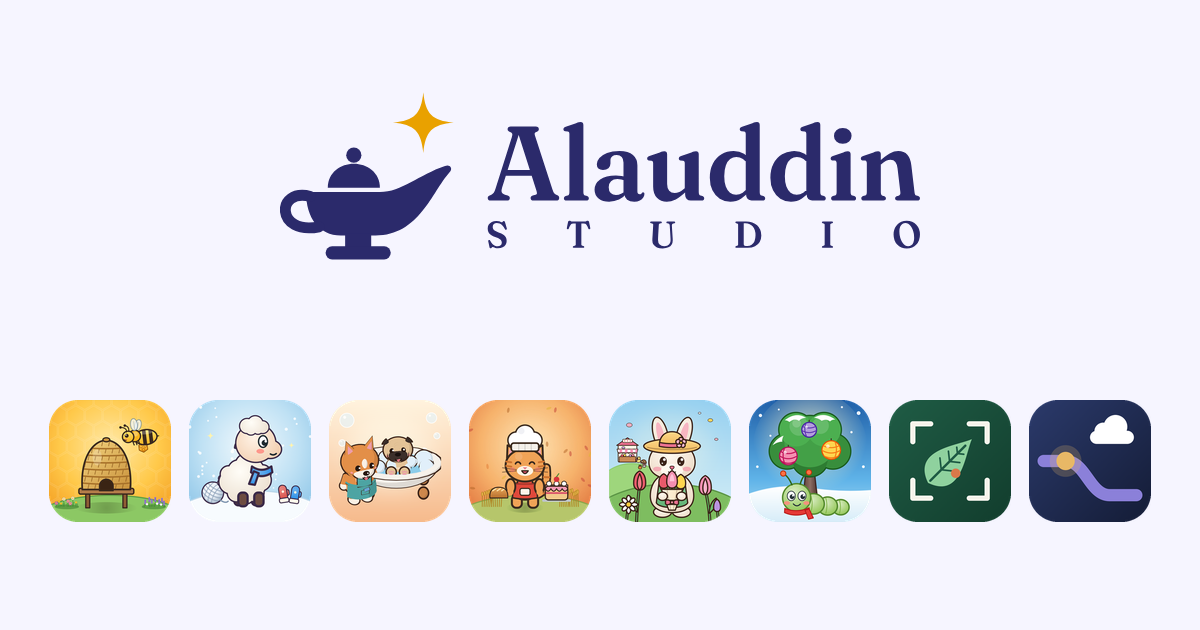
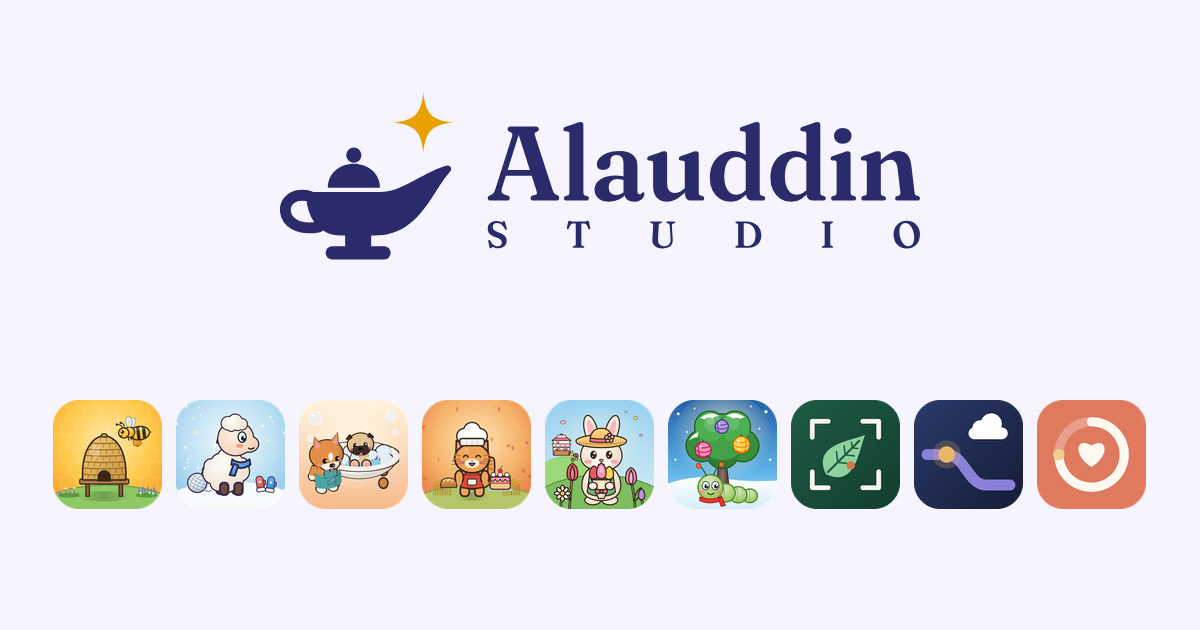
Add Kinring: app page, privacy, screenshots and home card

Changed region(s): [[0.0308, 0.6333, 0.9867, 0.8444]]

diff --git a/kinring/index.html b/kinring/index.html
@@ -1,0 +1,91 @@
+<!doctype html>
+<html lang="en" class="no-js">
+<head>
+  <meta charset="utf-8">
+  <script>document.documentElement.className = "js";</script>
+  <meta name="viewport" content="width=device-width, initial-scale=1, viewport-fit=cover">
+  <title>Kinring: Keep in Touch Family</title>
+  <meta name="description" content="Kinring is a daily reminder to make time for your family. See who needs your time today, with one small idea for each person.">
+  <meta name="theme-color" content="#E07A5F">
+  <meta property="og:title" content="Kinring: Keep in Touch Family">
+  <meta property="og:description" content="Kinring is a daily reminder to make time for your family. See who needs your time today, with one small idea for each person.">
+  <meta property="og:image" content="https://alauddinstudio.com/kinring/icon.png">
+  <meta property="og:url" content="https://alauddinstudio.com/kinring/">
+  <meta property="og:type" content="website">
+  <meta name="twitter:card" content="summary_large_image">
+  <link rel="canonical" href="https://alauddinstudio.com/kinring/">
+  <link rel="icon" href="../assets/favicon.png">
+  <link rel="preconnect" href="https://fonts.googleapis.com">
+  <link rel="preconnect" href="https://fonts.gstatic.com" crossorigin>
+  <link href="https://fonts.googleapis.com/css2?family=Fredoka:wght@500;600;700&family=Nunito:wght@500;700;800&display=swap" rel="stylesheet">
+  <link rel="stylesheet" href="../assets/style.css?v=aac029da">
+  <link rel="apple-touch-icon" href="../assets/apple-touch-icon.png">
+  <style>:root { --c1: #E07A5F; --c2: #F2CC8F; --bg: #FFF8F1; }</style>
+  <script type="application/ld+json">{"@context": "https://schema.org", "@type": "MobileApplication", "name": "Kinring: Keep in Touch Family", "description": "Kinring is a daily reminder to make time for your family. See who needs your time today, with one small idea for each person.", "url": "https://alauddinstudio.com/kinring/", "image": "https://alauddinstudio.com/kinring/icon.png", "applicationCategory": "LifestyleApplication", "operatingSystem": "Android, iOS", "publisher": {"@type": "Organization", "name": "Alauddin Studio", "url": "https://alauddinstudio.com/"}}</script>
+</head>
+<body class="app-page" data-particles='["❤", "🧡"]'>
+  <div class="sky" aria-hidden="true"><div class="blob b1"></div><div class="blob b2"></div><div class="blob b3"></div></div>
+  <div class="particles" aria-hidden="true"></div>
+  <div class="wrap">
+    <header class="topbar">
+      <a class="brand" href="../"><span class="brand-mark"><img src="../assets/logo-icon.svg" alt="" width="36" height="36"></span><span>Alauddin Studio</span></a>
+      <nav class="nav"><a href="#features">Features</a><a href="#help">Help</a><a href="#contact">Contact</a></nav>
+    </header>
+
+    <section class="hero game-hero">
+      <div class="hero-text">
+        <div class="title-row"><img class="app-icon" src="icon.png" alt="" width="256" height="256"><span class="badge soon"><span class="dot"></span>Coming soon</span></div>
+        <h1>Kinring</h1>
+        <p class="app-tag">Make time for family</p>
+        <p>Busy days fly by. Kinring shows 1 to 3 people who need your time today, and one small thing to do for each.</p>
+        <div class="cta-row"><span class="btn ghost disabled">🌱 Coming soon</span><a class="btn ghost" href="#features">See what it does</a></div>
+      </div>
+      <div class="hero-visual"><div class="phone tall"><img src="shots/1.jpg" alt="Kinring screenshot" width="432" height="970"></div></div>
+    </section>
+    <section class="gallery tall reveal" aria-label="Screenshots">
+      <button class="arrow prev" type="button" aria-label="Previous screenshots">‹</button>
+      <div class="shots" style="--n:6"><img src="shots/1.jpg" data-big="shots/1@2.jpg" alt="Kinring screenshot 1" loading="lazy" width="432" height="970"><img src="shots/2.jpg" data-big="shots/2@2.jpg" alt="Kinring screenshot 2" loading="lazy" width="432" height="970"><img src="shots/3.jpg" data-big="shots/3@2.jpg" alt="Kinring screenshot 3" loading="lazy" width="432" height="970"><img src="shots/4.jpg" data-big="shots/4@2.jpg" alt="Kinring screenshot 4" loading="lazy" width="432" height="970"><img src="shots/5.jpg" data-big="shots/5@2.jpg" alt="Kinring screenshot 5" loading="lazy" width="432" height="970"><img src="shots/6.jpg" data-big="shots/6@2.jpg" alt="Kinring screenshot 6" loading="lazy" width="432" height="970"></div>
+      <button class="arrow next" type="button" aria-label="Next screenshots">›</button>
+      <p class="sample">Screens show sample data.</p>
+    </section>
+
+    <section class="about" id="features">
+      <div class="section-head reveal"><span class="eyebrow">What it does</span><h2>Everything in one simple app</h2></div>
+      <div class="feats"><div class="feat reveal" style="--d:0.00s"><span class="feat-ic">📞</span><b>Who needs you today</b><span>1 to 3 people a day, with one small idea for each.</span></div><div class="feat reveal" style="--d:0.07s"><span class="feat-ic">💍</span><b>A ring for each person</b><span>Full ring: you gave them time. Low ring: they miss you.</span></div><div class="feat reveal" style="--d:0.14s"><span class="feat-ic">⏳</span><b>A number that stays</b><span>See about how many more times you may see Mom or Dad.</span></div><div class="feat reveal" style="--d:0.21s"><span class="feat-ic">📊</span><b>Your week</b><span>See who got your time this week, person by person.</span></div><div class="feat reveal" style="--d:0.28s"><span class="feat-ic">💬</span><b>Questions to ask</b><span>12 questions to ask your parents and grandparents.</span></div><div class="feat reveal" style="--d:0.35s"><span class="feat-ic">🌍</span><b>Eight languages</b><span>English, Deutsch, Français, Español, 日本語, Português, 한국어, 繁體中文.</span></div></div>
+    </section>
+
+    <section class="about" id="how">
+      <div class="section-head reveal"><span class="eyebrow">How it works</span><h2>Three easy steps</h2></div>
+      <div class="feats three"><div class="feat reveal" style="--d:0.00s"><span class="feat-ic step-no">1</span><b>Add your family</b><span>Mom, Dad, kids, partner, brother, sister, friends.</span></div><div class="feat reveal" style="--d:0.07s"><span class="feat-ic step-no">2</span><b>Get a daily nudge</b><span>One quiet reminder, at the time you pick.</span></div><div class="feat reveal" style="--d:0.14s"><span class="feat-ic step-no">3</span><b>Tap &quot;Did it&quot;</b><span>Their ring fills up again.</span></div></div>
+    </section>
+
+    <section class="about" id="help">
+      <div class="section-head reveal"><span class="eyebrow">Help</span><h2>Questions and answers</h2></div>
+      <div class="faqs"><details class="faq"><summary>How is &quot;72 more times&quot; counted?</summary><p>It is a simple estimate: (82 − their age) × how often you meet each year. It can be wrong, so Kinring says "may". It is there to remind you, not to scare you.</p></details><details class="faq"><summary>What is free and what is Premium?</summary><p>Free: one person, the daily nudge, their ring and the "more times" number. Premium adds your whole family, daily ideas for each person, your week and 12 questions to ask your parents.</p></details><details class="faq"><summary>Why didn&#x27;t I get a reminder?</summary><p>Check that notifications are allowed for Kinring in your phone's settings, and that the reminder is on in Kinring → Settings.</p></details><details class="faq"><summary>How do I cancel my subscription?</summary><p><b>iPhone:</b> Settings → your name → Subscriptions → Kinring → Cancel Subscription.<br><b>Android:</b> Google Play → profile icon → Payments &amp; subscriptions → Subscriptions → Kinring → Cancel.<br>Cancel at least 24 hours before the end of the period to avoid the next charge. Deleting the app does not cancel the subscription.</p></details><details class="faq"><summary>I bought Premium but the app still asks me to pay.</summary><p>Open Settings and tap <b>Restore purchases</b>, using the same Apple ID or Google account you paid with. If that does not help, email us.</p></details><details class="faq"><summary>How do I get a refund?</summary><p>Payments are handled by Apple and Google, so refunds are too. iPhone: <a href="https://reportaproblem.apple.com">reportaproblem.apple.com</a>. Android: Google Play → Payments &amp; subscriptions → Budget &amp; history, or the Google Play Help Center.</p></details><details class="faq"><summary>Does Kinring read my contacts?</summary><p>No. You type the names yourself. Your family list stays on your phone; we have no account for you. See the <a href="privacy.html">Privacy Policy</a>.</p></details><details class="faq"><summary>How do I delete my data?</summary><p>Kinring → Settings → Delete all data, or delete the app.</p></details></div>
+    </section>
+
+    <section class="contact reveal" id="contact">
+      <span class="why-ic big">💌</span>
+      <h2>Contact us</h2>
+      <p>Questions, bugs or ideas? We usually reply within 2 days.</p>
+      <a class="btn" href="mailto:hello@alauddinstudio.com?subject=Kinring">Email us</a>
+    </section>
+
+    <section class="more">
+      <div class="section-head reveal"><span class="eyebrow">More from Alauddin Studio</span><h2>Keep exploring</h2></div>
+      <div class="minis"><a class="mini" href="../leafcure/" style="--c1:#1F5C45"><img src="../leafcure/icon.png" alt="" loading="lazy" width="256" height="256"><span>Leafcure</span></a><a class="mini" href="../paincast/" style="--c1:#4B4A9E"><img src="../paincast/icon.png" alt="" loading="lazy" width="256" height="256"><span>Paincast</span></a><a class="mini" href="../" style="--c1:#2B2A6B"><img src="../assets/logo-512.png" alt="" loading="lazy" width="256" height="256"><span>All games and apps</span></a></div>
+    </section>
+  </div>
+  <footer class="footer">
+    <div class="wrap">
+      <div class="foot-top">
+        <a class="brand" href="../"><span class="brand-mark"><img src="../assets/logo-icon.svg" alt="" width="36" height="36"></span><span>Alauddin Studio</span></a>
+        <p>Little ideas, a touch of magic.</p>
+      </div>
+      <div class="foot-links one"><div><b>Kinring</b><a href="privacy.html">Privacy Policy</a><a href="#help">Support</a><a href="https://www.apple.com/legal/internet-services/itunes/dev/stdeula/">Terms of Use</a></div></div><p class="made">Made with care by Alauddin Studio</p>
+      <p class="copy">© 2026 <a href="https://alauddinstudio.com/">Alauddin Studio</a> · <a href="mailto:hello@alauddinstudio.com">hello@alauddinstudio.com</a></p>
+    </div>
+  </footer>
+  <script src="../assets/app.js?v=aac029da"></script>
+</body>
+</html>

diff --git a/index.html b/index.html
@@ -109,6 +109,13 @@
         <ul class="highlights"><li>🌦 Pressure alerts</li><li>📝 Pain diary</li><li>📱 Stays on your phone</li></ul>
         <span class="go">Explore →</span>
       </a>
+      <a class="game-card reveal" href="kinring/" style="--c1:#E07A5F;--c2:#F2CC8F;--d:0.14s">
+        <div class="art"><img src="kinring/icon.png" alt="Kinring icon" loading="lazy" width="256" height="256"><span class="badge soon"><span class="dot"></span>Coming soon</span></div>
+        <h3 data-status="Coming soon">Kinring</h3>
+        <p>A daily nudge to call Mom, text your brother and play with your kids.</p>
+        <ul class="highlights"><li>📞 Who needs you today</li><li>💍 A ring for each person</li><li>📱 Stays on your phone</li></ul>
+        <span class="go">Explore →</span>
+      </a>
       </div>
     </section>
 
@@ -137,11 +144,11 @@
       </div>
       <div class="foot-cols">
         <div><b>Games</b><a href="honeybee/">Honey Bee Idle</a><a href="sheep/">Sheep Merge</a><a href="petsalon/">Pet Salon Idle</a><a href="wooltree/">Wool Tree Idle</a><a href="flower/">Flower Shop Idle</a><a href="bakery/">Cozy Bakery Idle</a></div>
-        <div><b>Apps</b><a href="leafcure/">Leafcure</a><a href="paincast/">Paincast</a></div>
+        <div><b>Apps</b><a href="leafcure/">Leafcure</a><a href="paincast/">Paincast</a><a href="kinring/">Kinring</a></div>
         <div><b>Studio</b><a href="#about">About us</a><a href="#contact">Contact</a></div>
         <div><b>Follow Leafcure</b><a href="https://www.tiktok.com/@leafcureapp" target="_blank" rel="noopener">TikTok</a><a href="https://www.instagram.com/leafcureapp/" target="_blank" rel="noopener">Instagram</a><a href="https://www.youtube.com/@leafcureapp" target="_blank" rel="noopener">YouTube</a></div>
       </div>
-      <details class="legal"><summary>Privacy and support</summary><div class="legal-rows"><div><b>Honey Bee Idle</b><a href="honey-bee/privacy.html">Privacy</a><a href="honey-bee/support.html">Support</a></div><div><b>Sheep Merge</b><a href="sheep-merge/privacy.html">Privacy</a><a href="sheep-merge/support.html">Support</a></div><div><b>Pet Salon Idle</b><a href="pet-salon/privacy.html">Privacy</a><a href="pet-salon/support.html">Support</a></div><div><b>Wool Tree Idle</b><a href="privacy.html">Privacy</a><a href="support.html">Support</a></div><div><b>Flower Shop Idle</b><a href="flower-shop/privacy.html">Privacy</a><a href="flower-shop/support.html">Support</a></div><div><b>Cozy Bakery Idle</b><a href="cozy-bakery/privacy.html">Privacy</a><a href="cozy-bakery/support.html">Support</a></div><div><b>Leafcure</b><a href="leafcure/privacy.html">Privacy</a><a href="leafcure/">Support</a></div><div><b>Paincast</b><a href="paincast/privacy.html">Privacy</a><a href="paincast/">Support</a></div></div></details><p class="made">Made with care by Alauddin Studio</p>
+      <details class="legal"><summary>Privacy and support</summary><div class="legal-rows"><div><b>Honey Bee Idle</b><a href="honey-bee/privacy.html">Privacy</a><a href="honey-bee/support.html">Support</a></div><div><b>Sheep Merge</b><a href="sheep-merge/privacy.html">Privacy</a><a href="sheep-merge/support.html">Support</a></div><div><b>Pet Salon Idle</b><a href="pet-salon/privacy.html">Privacy</a><a href="pet-salon/support.html">Support</a></div><div><b>Wool Tree Idle</b><a href="privacy.html">Privacy</a><a href="support.html">Support</a></div><div><b>Flower Shop Idle</b><a href="flower-shop/privacy.html">Privacy</a><a href="flower-shop/support.html">Support</a></div><div><b>Cozy Bakery Idle</b><a href="cozy-bakery/privacy.html">Privacy</a><a href="cozy-bakery/support.html">Support</a></div><div><b>Leafcure</b><a href="leafcure/privacy.html">Privacy</a><a href="leafcure/">Support</a></div><div><b>Paincast</b><a href="paincast/privacy.html">Privacy</a><a href="paincast/">Support</a></div><div><b>Kinring</b><a href="kinring/privacy.html">Privacy</a><a href="kinring/">Support</a></div></div></details><p class="made">Made with care by Alauddin Studio</p>
       <p class="copy">© 2026 <a href="https://alauddinstudio.com/">Alauddin Studio</a> · <a href="mailto:hello@alauddinstudio.com">hello@alauddinstudio.com</a></p>
     </div>
   </footer>

diff --git a/kinring/privacy.html b/kinring/privacy.html
@@ -1,0 +1,48 @@
+<!doctype html>
+<html lang="en">
+<head>
+<meta charset="utf-8">
+<meta name="viewport" content="width=device-width, initial-scale=1">
+<title>Kinring Privacy Policy</title>
+<link rel="stylesheet" href="style.css">
+</head>
+<body>
+<div class="page">
+  <p><a href="./">← Kinring</a></p>
+  <h1>Privacy Policy</h1>
+  <p class="updated">Last updated: 3 November 2026</p>
+
+  <p>Kinring ("the app") is made by Md Alauddin (Alauddin Studio). This policy explains what data the app uses and why. In short: your family list never leaves your phone, there is no account, no ads and no tracking.</p>
+
+  <h2>Your family list</h2>
+  <p>The people you add (name, relation, optional age, how often you want to make time) and the times you mark as done are stored only on your phone. We never receive them. The app does not read your phone's contacts; you type the names yourself.</p>
+
+  <h2>Sharing</h2>
+  <p>If you tap "Share", the app makes a picture on your phone and opens your phone's share menu. It goes only where you choose to send it.</p>
+
+  <h2>Purchases</h2>
+  <p>Subscriptions and the one-time purchase are handled by Apple or Google and by RevenueCat, which tells the app whether Premium is active using an anonymous ID. We never see your card details.</p>
+
+  <h2>Notifications</h2>
+  <p>The daily reminder is planned on your phone, at the time you pick. No push server is involved. You can turn it off in Settings.</p>
+
+  <h2>What we do not do</h2>
+  <ul>
+    <li>No account, no sign-in</li>
+    <li>No ads and no advertising ID</li>
+    <li>No analytics or tracking</li>
+    <li>No selling or sharing of personal data</li>
+  </ul>
+
+  <h2>Children</h2>
+  <p>The app is made for adults. It is not directed at children under 13 and does not knowingly collect data from them.</p>
+
+  <h2>Your rights</h2>
+  <p>You can delete all app data at any time in Settings → Delete all data, or by deleting the app. For questions or requests, including GDPR and CCPA requests, email <a href="mailto:hello@alauddinstudio.com?subject=Kinring%20privacy">hello@alauddinstudio.com</a>.</p>
+
+  <h2>Changes</h2>
+  <p>If this policy changes, the new version will be posted on this page with a new date.</p>
+</div>
+<footer>© 2026 Alauddin Studio</footer>
+</body>
+</html>

diff --git a/kinring/style.css b/kinring/style.css
@@ -1,0 +1,54 @@
+:root {
+  --leaf: #3A2E2A;
+  --leaf-dark: #2A201D;
+  --sage: #F3E9DF;
+  --cream: #FFF8F1;
+  --terra: #E07A5F;
+  --ink: #1c2421;
+  --muted: #66736d;
+}
+* { box-sizing: border-box; }
+body {
+  margin: 0;
+  background: var(--cream);
+  color: var(--ink);
+  font: 17px/1.6 -apple-system, BlinkMacSystemFont, "Segoe UI", Roboto, sans-serif;
+  overflow-wrap: break-word;
+}
+a { color: var(--leaf); }
+.hero {
+  background: linear-gradient(160deg, var(--leaf), var(--leaf-dark));
+  color: #fff;
+  text-align: center;
+  padding: 48px 16px 40px;
+}
+.hero .icon { border-radius: 22%; box-shadow: 0 6px 24px rgba(0,0,0,.25); }
+.hero h1 { margin: 16px 0 0; font-size: 40px; }
+.hero .tag { margin: 0 0 12px; color: var(--sage); font-weight: 600; }
+.hero p { max-width: 560px; margin: 0 auto; }
+.hero .studio { display: block; max-width: 720px; margin: -36px auto 12px; padding: 12px 0; text-align: left; color: var(--sage); font-size: 15px; font-weight: 600; text-decoration: none; }
+.hero .store { display: inline-block; margin-top: 18px; padding: 10px 20px; border: 1px solid rgba(255,255,255,.6); border-radius: 14px; color: #fff; font-weight: 700; text-decoration: none; }
+.hero .store svg { width: 20px; height: 20px; vertical-align: -4px; }
+.hero .store.off { opacity: .8; font-weight: 600; }
+main, .page { max-width: 720px; margin: 0 auto; padding: 24px 16px; }
+h2 { color: var(--leaf-dark); margin-top: 32px; }
+ul { padding-left: 20px; }
+details {
+  background: #fff;
+  border-radius: 12px;
+  margin: 10px 0;
+  padding: 12px 16px;
+  box-shadow: 0 1px 3px rgba(0,0,0,.08);
+}
+summary { cursor: pointer; font-weight: 600; }
+details p { margin: 10px 0 0; }
+.contact { border-top: 2px solid var(--sage); }
+footer {
+  text-align: center;
+  color: var(--muted);
+  font-size: 14px;
+  padding: 24px 16px 40px;
+}
+footer a { display: inline-block; padding: 12px 4px; }
+.page h1 { color: var(--leaf-dark); margin-bottom: 4px; }
+.updated { color: var(--muted); margin-top: 0; }

diff --git a/leafcure/index.html b/leafcure/index.html
@@ -73,7 +73,7 @@
 
     <section class="more">
       <div class="section-head reveal"><span class="eyebrow">More from Alauddin Studio</span><h2>Keep exploring</h2></div>
-      <div class="minis"><a class="mini" href="../paincast/" style="--c1:#4B4A9E"><img src="../paincast/icon.png" alt="" loading="lazy" width="256" height="256"><span>Paincast</span></a><a class="mini" href="../" style="--c1:#2B2A6B"><img src="../assets/logo-512.png" alt="" loading="lazy" width="256" height="256"><span>All games and apps</span></a></div>
+      <div class="minis"><a class="mini" href="../paincast/" style="--c1:#4B4A9E"><img src="../paincast/icon.png" alt="" loading="lazy" width="256" height="256"><span>Paincast</span></a><a class="mini" href="../kinring/" style="--c1:#E07A5F"><img src="../kinring/icon.png" alt="" loading="lazy" width="256" height="256"><span>Kinring</span></a><a class="mini" href="../" style="--c1:#2B2A6B"><img src="../assets/logo-512.png" alt="" loading="lazy" width="256" height="256"><span>All games and apps</span></a></div>
     </section>
   </div>
   <footer class="footer">

diff --git a/paincast/index.html b/paincast/index.html
@@ -73,7 +73,7 @@
 
     <section class="more">
       <div class="section-head reveal"><span class="eyebrow">More from Alauddin Studio</span><h2>Keep exploring</h2></div>
-      <div class="minis"><a class="mini" href="../leafcure/" style="--c1:#1F5C45"><img src="../leafcure/icon.png" alt="" loading="lazy" width="256" height="256"><span>Leafcure</span></a><a class="mini" href="../" style="--c1:#2B2A6B"><img src="../assets/logo-512.png" alt="" loading="lazy" width="256" height="256"><span>All games and apps</span></a></div>
+      <div class="minis"><a class="mini" href="../leafcure/" style="--c1:#1F5C45"><img src="../leafcure/icon.png" alt="" loading="lazy" width="256" height="256"><span>Leafcure</span></a><a class="mini" href="../kinring/" style="--c1:#E07A5F"><img src="../kinring/icon.png" alt="" loading="lazy" width="256" height="256"><span>Kinring</span></a><a class="mini" href="../" style="--c1:#2B2A6B"><img src="../assets/logo-512.png" alt="" loading="lazy" width="256" height="256"><span>All games and apps</span></a></div>
     </section>
   </div>
   <footer class="footer">

diff --git a/tools/build.py b/tools/build.py
@@ -477,11 +477,14 @@ def build_app_page(a):
         f'<img src="shots/{i}.jpg" data-big="shots/{i}@2.jpg" alt="{E(a["name"])} screenshot {i}" loading="lazy" width="432" height="970">'
         for i in range(1, a["shots"] + 1)
     )
+    dark = a.get("dark_shots", True)  # first half light, second half dark
+    per_row = a["shots"] // 2 if dark else a["shots"]
+    note = "Light and dark themes. Screens show sample data." if dark else "Screens show sample data."
     gallery = f"""    <section class="gallery tall reveal" aria-label="Screenshots">
       <button class="arrow prev" type="button" aria-label="Previous screenshots">‹</button>
-      <div class="shots" style="--n:{a['shots'] // 2}">{shots}</div>
+      <div class="shots" style="--n:{per_row}">{shots}</div>
       <button class="arrow next" type="button" aria-label="Next screenshots">›</button>
-      <p class="sample">Light and dark themes. Screens show sample data.</p>
+      <p class="sample">{note}</p>
     </section>"""
     others = "".join(
         f'<a class="mini" href="../{o["slug"]}/" style="--c1:{o["color"]}"><img src="../{o["slug"]}/icon.png" alt="" loading="lazy" width="256" height="256"><span>{E(o["name"])}</span></a>'

diff --git a/README.md b/README.md
@@ -17,9 +17,9 @@ The whole Alauddin Studio website lives in this one repo. When you push here, Gi
 |---|---|---|
 | `data/games.json` | Text, status and colors for every game and app. The games read it at launch to show the "More cozy games" list | Yes, every change starts here |
 | `tools/build.py` | Builds all pages from `games.json` | Only to change the design |
-| `index.html`, `games/`, `honeybee/`, `bakery/`, `flower/`, `petsalon/`, `sheep/`, `wooltree/`, `leafcure/index.html`, `paincast/index.html`, `robots.txt`, `sitemap.xml` | Pages made by the build | No, the next build overwrites them |
+| `index.html`, `games/`, `honeybee/`, `bakery/`, `flower/`, `petsalon/`, `sheep/`, `wooltree/`, `leafcure/index.html`, `paincast/index.html`, `kinring/index.html`, `robots.txt`, `sitemap.xml` | Pages made by the build | No, the next build overwrites them |
 | `honey-bee/`, `cozy-bakery/`, `flower-shop/`, `pet-salon/`, `sheep-merge/`, and the root `privacy.html` and `support.html` (Wool Tree) | Game Privacy and Support pages. Each folder's `index.html` just sends visitors to `support.html`, because the games link to addresses like `alauddinstudio.com/pet-salon` | Yes, hand-written |
-| `leafcure/privacy.html`, `paincast/privacy.html` | App Privacy pages | Yes, hand-written |
+| `leafcure/privacy.html`, `paincast/privacy.html`, `kinring/privacy.html` | App Privacy pages | Yes, hand-written |
 | `assets/` | Design (`style.css`, `app.js`), logo, game icons, screenshots, videos | Yes. But don't rename files in `assets/icons/` or `assets/shots/`, the games load images by these names |
 | `app-ads.txt` | AdMob file | No, it must stay at the root |
 | `CNAME` | The `alauddinstudio.com` domain | No |
